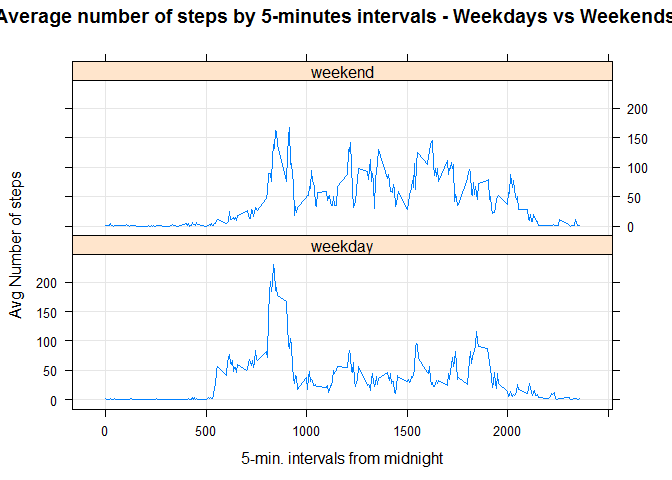
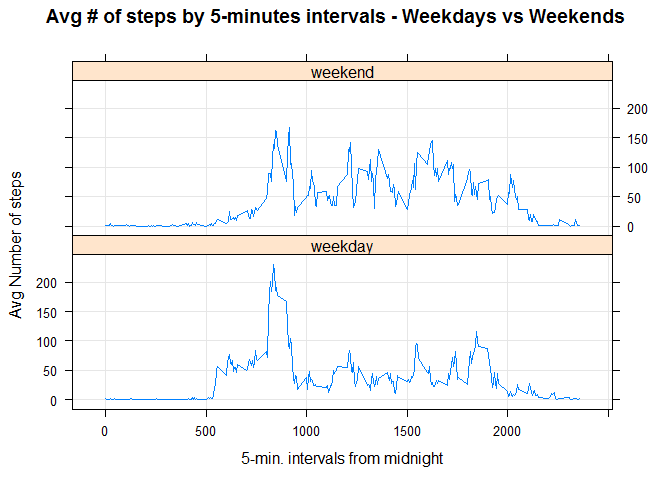
An update for the Peer Assessment1

Changed region(s): [[0.0, 0.0, 1.0, 0.0625]]

diff --git a/PA1_template.html b/PA1_template.html
@@ -181,8 +181,8 @@ allActivity$day[weekdays(as.Date(allActivity$date), abb = T) %in% c(&quot;Sat&qu
 allmeanIntervalSteps&lt;- aggregate(x = allActivity$steps, by = list(allActivity$interval, allActivity$day), FUN = mean, na.rm = TRUE)
 names(allmeanIntervalSteps) &lt;- c(&quot;interval&quot;,&quot;day&quot;,&quot;steps&quot;)
 
-xyplot(steps ~ interval | day, data=allmeanIntervalSteps, type=&quot;l&quot;, grid=TRUE, layout=c(1,2), ylab=&quot;Avg Number of steps&quot;, xlab=&quot;5-min. intervals from midnight&quot;, main=&quot;Average number of steps by 5-minutes intervals - Weekdays vs Weekends&quot;)</code></pre>
[1 lines of base64/hex data omitted]
+xyplot(steps ~ interval | day, data=allmeanIntervalSteps, type=&quot;l&quot;, grid=TRUE, layout=c(1,2), ylab=&quot;Avg Number of steps&quot;, xlab=&quot;5-min. intervals from midnight&quot;, main=&quot;Avg # of steps by 5-minutes intervals - Weekdays vs Weekends&quot;)</code></pre>
[1 lines of base64/hex data omitted]
 </div>
 
 

diff --git a/PA1_template.md b/PA1_template.md
@@ -206,7 +206,7 @@ The graph illustrates the subject starts walking later on the weekend than the w
 allmeanIntervalSteps<- aggregate(x = allActivity$steps, by = list(allActivity$interval, allActivity$day), FUN = mean, na.rm = TRUE)
 names(allmeanIntervalSteps) <- c("interval","day","steps")
 
-xyplot(steps ~ interval | day, data=allmeanIntervalSteps, type="l", grid=TRUE, layout=c(1,2), ylab="Avg Number of steps", xlab="5-min. intervals from midnight", main="Average number of steps by 5-minutes intervals - Weekdays vs Weekends")
+xyplot(steps ~ interval | day, data=allmeanIntervalSteps, type="l", grid=TRUE, layout=c(1,2), ylab="Avg Number of steps", xlab="5-min. intervals from midnight", main="Avg # of steps by 5-minutes intervals - Weekdays vs Weekends")
 ```
 
 ![](PA1_template_files/figure-html/unnamed-chunk-16-1.png) 
